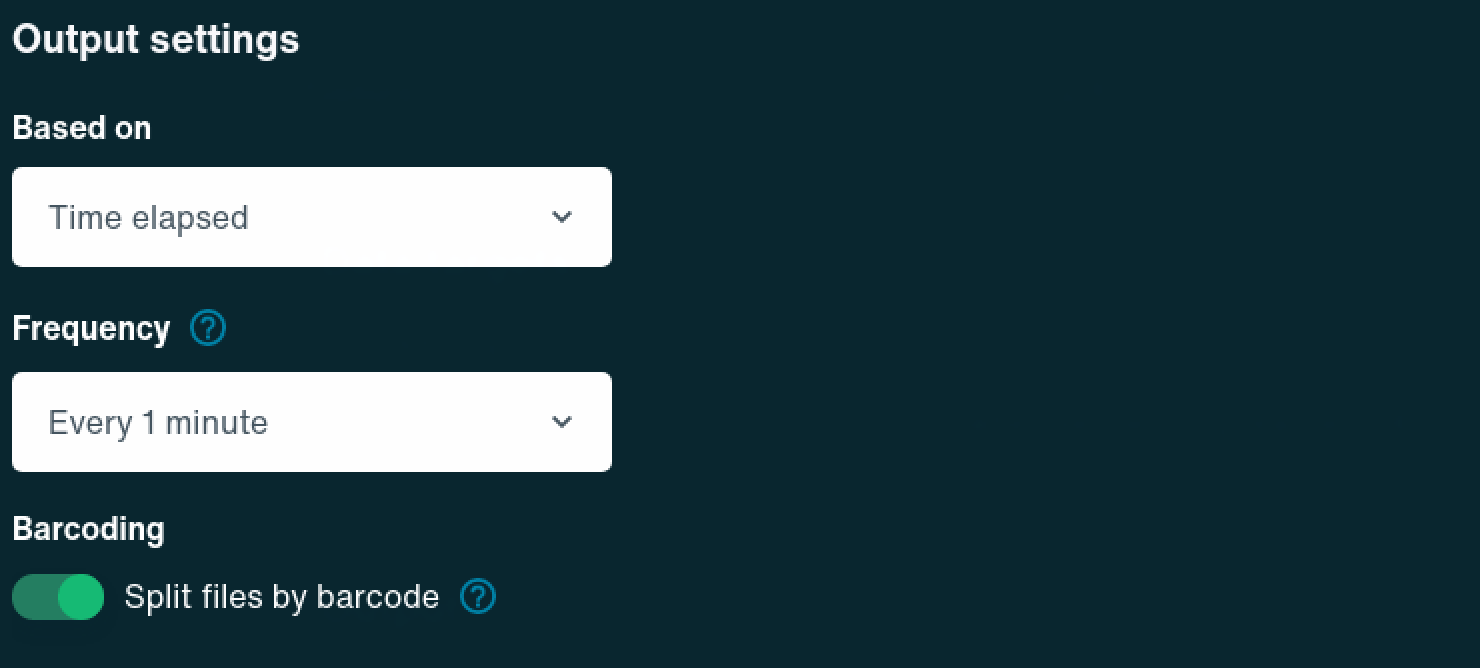
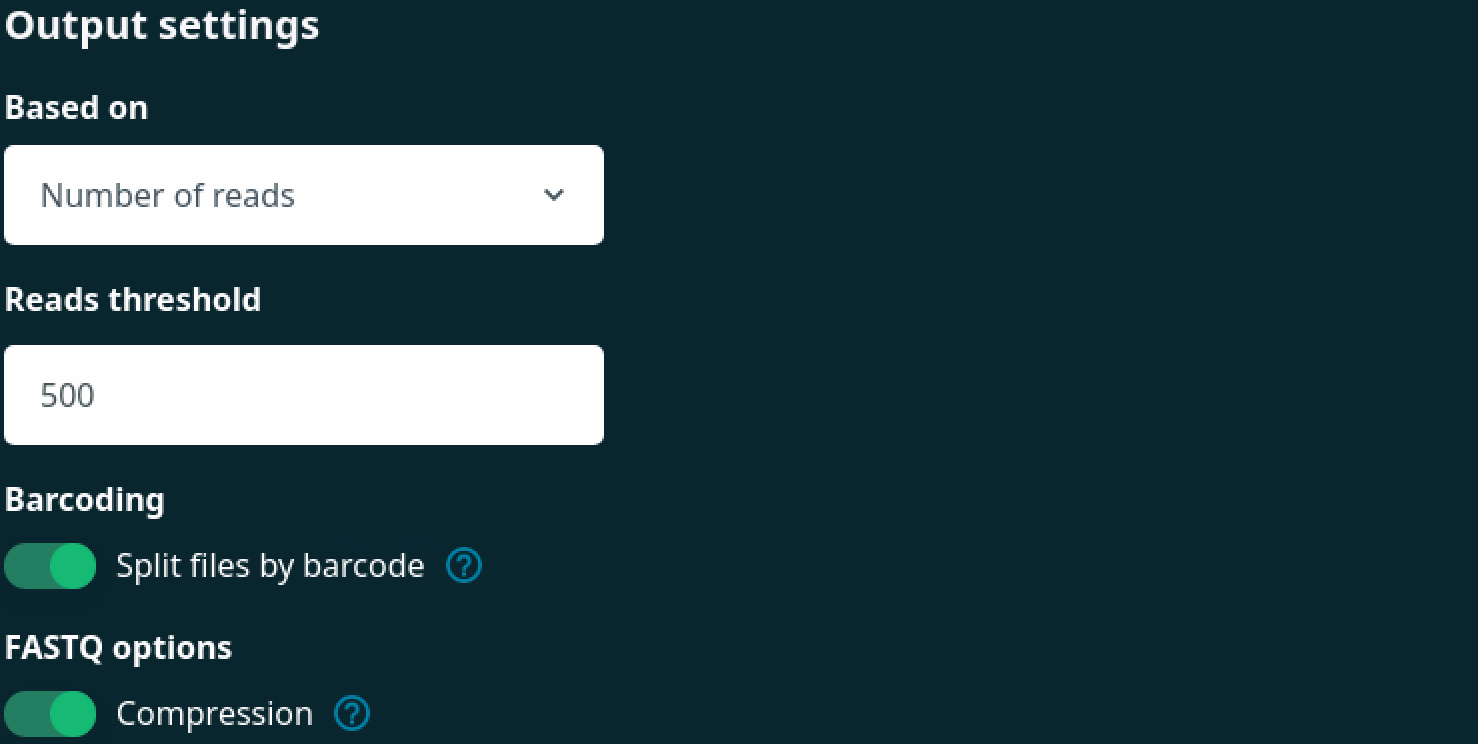
Updated README.

Changed region(s): [[0.0, 0.4491, 0.4357, 1.0], [0.0, 0.1198, 0.4357, 0.4192], [0.0, 0.0, 0.2179, 0.0898]]

diff --git a/README.md b/README.md
@@ -30,7 +30,7 @@ Offering Real-time 16s DNA Classification of Long Read Sequencing.
 
 To run the app locally, please install R version >= 4.4.2 and RStudio. Also, please ensure that the MinKNOW app version >= 24.06.10.
 
-You can install R and all the required packages using a single command. If not present, this command will install the conda and create a new environment named nanotaxi-env.
+You can install R and all the required R packages using a single command. If not present, this command will install the conda and create a new environment named nanotaxi-env.
 
 ```bash
 if which conda >/dev/null; then
@@ -75,21 +75,62 @@ shiny::runApp("main_app.R")
 You can also run the app directly from GitHub using the following command:
 
 ```r
-# Make Sure that the shiny package is installed in the R.
 shiny::runGitHub("NANOTAXI", "Nirmal2310")
 ```
 
-This app will download the conda environments and databases required to classify long reads in real-time while starting up for the first time. So, please ensure that enough free space is available on the system. 
+The app will download and install the required conda environments and databases required to classify long reads in real-time while starting up for the first time. So, please ensure that enough free space is available on the system.
+
+If you are running the application in the remote server and wants to open the interface in the local browser, please use the given step by step guide:
+
+- Assign a port for running local R Shiny server by using the following command:
+
+```bash
+echo "options(shiny.port=5316)" >> ~/.Rprofile
+```
+Here, I have assigned the port **5316** for running R Shiny Applications. Please ensure that the port is free before assigning it to the run Shiny Applications.
+
+- Connect to the Remote Server in the new window by using the following command:
+
+```bash
+ssh -L 8080:localhost:5316 hostname@ip_address
+```
+Change the local host port number, host name and the ip address accordingly.
+
+- Now launch the Shiny App through the server's terminal:
+
+```bash
+shiny::runApp("main_app.R", launch.browser=FALSE)
+```
+
+- Finally, open NANOTAXI in your browser of choice by entering the following address:
+
+```bash
+http://127.0.0.1:8080
+```
+<br>
 
 While setting up the MinKNOW app for sequencing, please make sure that under the **barcoding setting**, both **Trim barcodes** and **Barcode both ends** are disabled as shown below:
 
 <img src="www/Barcode_Setting.png" alt="Barcode Setup" style="width: 100%"/>
+This is to minimise the unclassified reads after demultiplexing. The application uses Dorado to trim the barcodes during the analysis of demultiplexed barcoded reads.
 
-Also, in the **Output settings**, please select **Time elapsed** under **Based on** option and **Every 1 minute** under **Frequency** option as the app will read the output data every 2 minutes. The reference screenshot is shown below:
+<br>
+
+Also, in the **Output settings**, please select **Number of reads** under **Based on** option and enter **500** under **Reads threshold** option as the app will process the barcoded data as the batch of 500 reads per barcode. The reference screenshot is shown below:
 
 <img src="www/Output_Setting.png" alt="Output Setting" style="width: 100%"/>
 
-To set up Offline Analysis, tick the checkbox adjacent to the setup option in **Offline Analysis** under the **INPUT** tab. It will first download and install all the required software and databases and then analyse the data.
+<br>
+
+Lastly, Minknow core 5.x requires a secure channel connection be made by the minknow API. In order to do this, please add the following line to the ~/.bashrc:
+
+```bash
+echo "export MINKNOW_TRUSTED_CA=\"/var/lib/minknow/data/rpc-certs/minknow/ca.crt\"" >> ~/.bashrc
+source ~/.bashrc
+```
+
+To set up Offline Analysis, tick the checkbox adjacent to the setup option in **Offline Analysis** under the **INPUT** tab. It will first download and install all the required software and databases and then analyse the data.<br> 
+However, currently all the pipelines are available in both real-time and offline settings. So, all the required softwares and databases will be downloaded and installed during the initial launch of the application.
 
 <img src="www/Offline_Setup.png" alt="Offline Setup" style="width: 100%"/>
 
@@ -97,7 +138,7 @@ To set up Offline Analysis, tick the checkbox adjacent to the setup option in **
 
 The Test Dataset is taken from the Bioproject ID [PRJEB82315](https://www.ebi.ac.uk/ena/browser/view/PRJEB82315).
 
-We have used [Emu](https://www.nature.com/articles/s41592-022-01520-4) to analyse the test dataset comprising 20 samples representing 20 barcodes and classified into three groups based on body fluids.
+We have used [Emu](https://www.nature.com/articles/s41592-022-01520-4) with its custom database to analyse the test dataset comprising 20 samples representing 20 barcodes and classified into three groups based on body fluids.
 
 <div  class="sample_info">
 
@@ -163,7 +204,7 @@ If you have any feedback/issues, please report the issue via [GitHub](https://gi
 - [BLASTn](https://blast.ncbi.nlm.nih.gov/Blast.cgi?PROGRAM=blastn&BLAST_SPEC=GeoBlast&PAGE_TYPE=BlastSearch)
 - [TaxonKit](https://www.sciencedirect.com/science/article/pii/S1673852721000837)
 - [BBTools](https://jgi.doe.gov/data-and-tools/software-tools/bbtools/)
-- [NanoFilt](https://academic.oup.com/bioinformatics/article/34/15/2666/4934939?login=true)
+- [Chopper](https://academic.oup.com/bioinformatics/article/39/5/btad311/7160911?login=true)
 - [SeqKit](https://onlinelibrary.wiley.com/doi/10.1002/imt2.191)
 - [Minimap2](https://academic.oup.com/bioinformatics/article/34/18/3094/4994778)
 - [GNU Parallel](https://zenodo.org/records/14911163)
@@ -193,6 +234,7 @@ If you have any feedback/issues, please report the issue via [GitHub](https://gi
 - [markdown](https://cran.r-project.org/web/packages/markdown/index.html/)
 - [validate](https://github.com/data-cleaning/validate)
 - [ggpubr](https://github.com/kassambara/ggpubr)
+- [cowplot](https://wilkelab.org/cowplot/)
 - [dendextend](https://github.com/talgalili/dendextend)
 - [BiocManager](https://github.com/Bioconductor/BiocManager)
 - [vegan](https://github.com/vegandevs/vegan)
